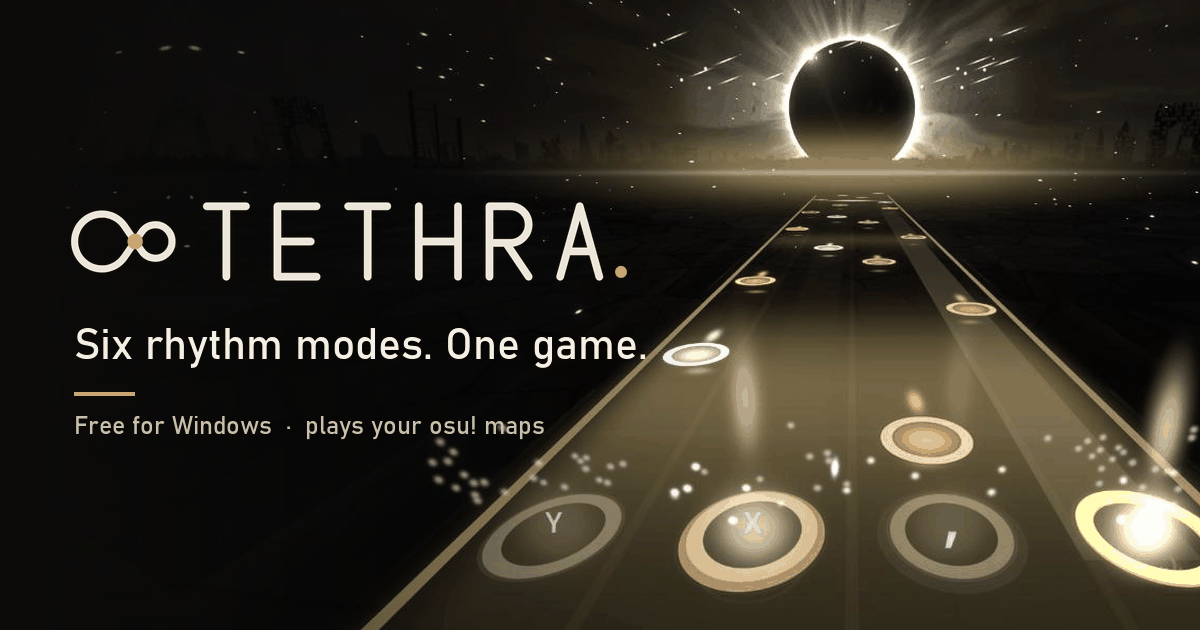
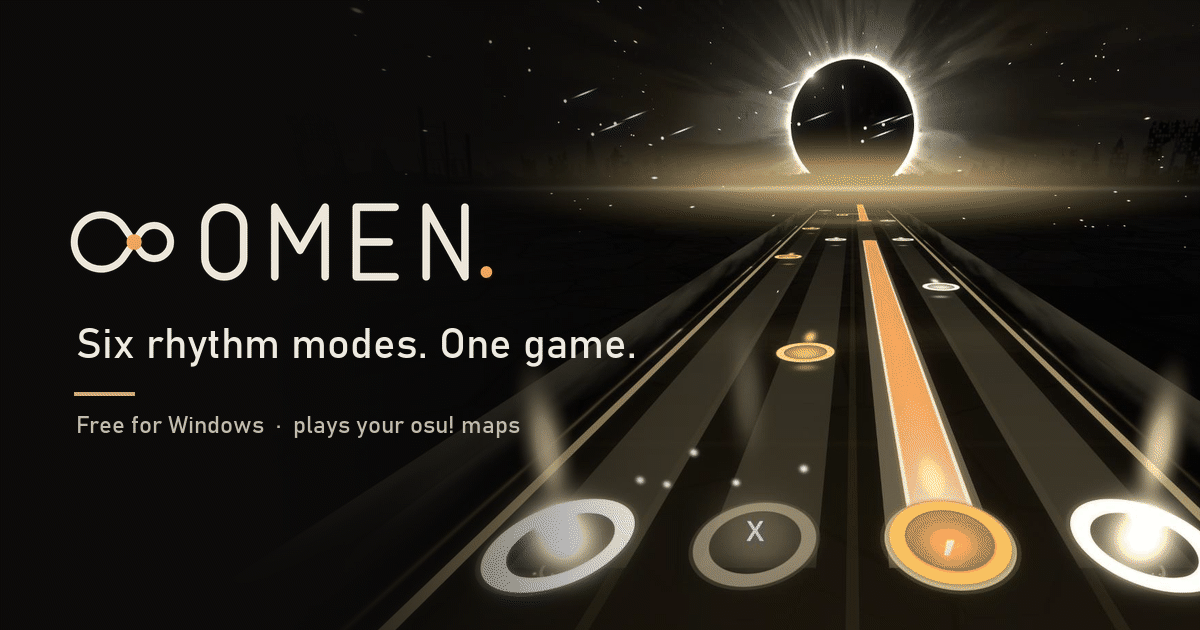
Media: Social Preview, OG-Bild und Trailer-Vorschaubild mit OMEN
Social Preview und OG-Bild neu aus einer Eclipse-Aufnahme ohne HUD (tools/make_social_preview.py),
im Trailer-Vorschaubild nur das Logo ersetzt (Hintergrund aus dem Map-Bild rekonstruiert).

diff --git a/tools/make_social_preview.py b/tools/make_social_preview.py
@@ -1,0 +1,145 @@
+#!/usr/bin/env python3
+"""Social Preview (docs/media/social_preview.png, 1280x640) und OG-Bild (docs/media/og_image.png,
+1200x630): echte Spielszene rechts, OMEN-Logo und Claim links auf Graphit.
+
+Aufruf: python tools/make_social_preview.py <szene.png>
+
+<szene.png> = 1920x1080-Bild der Eclipse-Welt ohne HUD, z. B. ein Frame aus einer
+Movie-Maker-Aufnahme wie in tools/make_trailer.sh (override.cfg aus tools/test_override.cfg plus
+window_width_override=1920/window_height_override=1080/borderless, dann
+  Godot --path . --audio-driver Dummy --write-movie <avi> --fixed-fps 60 --resolution 1920x1080
+  --position -1920,0 res://scenes/song_select.tscn --mode=mania --map="Cyber Grind" --diff=Hard
+  --3d --theme=eclipse --autoplay --lang=en --nohud --shot --shot-at=135500 --shot-lead=0
+  --movie-len=3
+und einen Frame mit ffmpeg herausziehen). Logo: docs/media/logo_wordmark.png
+(aus tools/render_logo_drafts.py --final). Schrift: Bahnschrift wie im Spiel (UiTheme.heading_font).
+"""
+import os
+import sys
+
+import numpy as np
+from PIL import Image, ImageDraw, ImageFont
+
+REPO = os.path.normpath(os.path.join(os.path.dirname(os.path.abspath(__file__)), ".."))
+MEDIA = os.path.join(REPO, "docs", "media")
+FONT = r"C:\Windows\Fonts\bahnschrift.ttf"
+GROUND = (12, 11, 10)          # Graphit, etwas tiefer als UiTheme.BG, damit die Szene leuchtet
+TEXT = (238, 234, 225)         # UiTheme.TEXT
+SUB = (193, 186, 172)          # zwischen TEXT und DIM
+RULE = (207, 172, 120)         # gedaempftes Bernstein
+HEAD = "Six rhythm modes. One game."
+TAIL = "Free for Windows  \u00b7  plays your osu! maps"
+
+# Ziel je Bild: Groesse, Eclipse-Mitte (Szene), Szenen-Massstab (1920x1080 -> Bild, so dass die
+# Empfaenger unten knapp im Bild bleiben), Logo (links, oben, Tintenhoehe),
+# Claim (links, oben, Breite), Linie (x, y, b, h), Zeile 2 (links, oben, Breite).
+LAYOUTS = {
+    "social_preview.png": dict(size=(1280, 640), sun=(908, 105), scale=0.72, logo=(75, 201, 81),
+                               head=(80, 331, 607), rule=(78, 402, 65, 5), tail=(81, 428, 500)),
+    "og_image.png": dict(size=(1200, 630), sun=(852, 102), scale=0.685, logo=(71, 203, 77),
+                         head=(76, 328, 568), rule=(74, 392, 61, 4), tail=(76, 416, 466)),
+}
+
+
+def find_sun(img):
+    """Mitte und Radius der dunklen Eclipse-Scheibe im oberen Bilddrittel."""
+    a = np.asarray(img.convert("L"), dtype=float)
+    h, w = a.shape
+    top = a[: h // 3, w // 4: 3 * w // 4]
+    # Scheibe = dunkle Flaeche, die von hellem Kranz umgeben ist: Spalten/Zeilen mit Kranz suchen
+    bright = top > 200
+    ys, xs = np.nonzero(bright)
+    cx = xs.mean() + w // 4
+    # Radius: dunkler Lauf entlang der Zeile durch die Kranz-Mitte
+    cy = ys.mean()
+    for _ in range(3):
+        row = a[int(cy), :]
+        x = int(cx)
+        l = x
+        while l > 0 and row[l] < 60:
+            l -= 1
+        r = x
+        while r < w - 1 and row[r] < 60:
+            r += 1
+        cx = (l + r) / 2
+        col = a[:, int(cx)]
+        t = int(cy)
+        while t > 0 and col[t] < 60:
+            t -= 1
+        b = int(cy)
+        while b < h - 1 and col[b] < 60:
+            b += 1
+        cy = (t + b) / 2
+    return cx, cy, (r - l) / 2
+
+
+def fit_font(text, width):
+    lo, hi = 8, 120
+    while hi - lo > 1:
+        mid = (lo + hi) // 2
+        f = ImageFont.truetype(FONT, mid)
+        f.set_variation_by_name("Regular")
+        x0, _, x1, _ = f.getbbox(text)
+        if x1 - x0 <= width:
+            lo = mid
+        else:
+            hi = mid
+    f = ImageFont.truetype(FONT, lo)
+    f.set_variation_by_name("Regular")
+    return f
+
+
+def put_text(d, text, left, top, width, fill):
+    f = fit_font(text, width)
+    x0, y0, _, _ = f.getbbox(text)
+    d.text((left - x0, top - y0), text, font=f, fill=fill)
+
+
+def compose(scene, name, L):
+    W, H = L["size"]
+    sx, sy, sr = find_sun(scene)
+    print("Eclipse in der Szene: %.0f, %.0f, r=%.0f" % (sx, sy, sr))
+    tx, ty = L["sun"]
+    k = L["scale"] * scene.width / 1920.0
+    sc = scene.resize((round(scene.width * k), round(scene.height * k)), Image.LANCZOS)
+    ox, oy = round(tx - sx * k), round(ty - sy * k)
+    out = Image.new("RGB", (W, H), GROUND)
+    out.paste(sc, (ox, oy))
+    # Szene nach links in den Graphit-Grund auslaufen lassen (glatte S-Kurve, kein Schein)
+    a = np.asarray(out, dtype=float)
+    x = np.arange(W, dtype=float)
+    t = np.clip((x - ox) / (W * 0.48), 0.0, 1.0)
+    keep = t * t * (3 - 2 * t)
+    a = a * keep[None, :, None] + np.array(GROUND, dtype=float)[None, None, :] * (1 - keep[None, :, None])
+    out = Image.fromarray(np.clip(a + 0.5, 0, 255).astype(np.uint8)).convert("RGBA")
+    # Logo
+    lg = Image.open(os.path.join(MEDIA, "logo_wordmark.png")).convert("RGBA")
+    bx = lg.getchannel("A").point(lambda v: 255 if v > 128 else 0).getbbox()
+    lx, ly, lh = L["logo"]
+    s = lh / (bx[3] - bx[1])
+    small = lg.resize((round(lg.width * s), round(lg.height * s)), Image.LANCZOS)
+    out.alpha_composite(small, (round(lx - bx[0] * s), round(ly - bx[1] * s)))
+    d = ImageDraw.Draw(out)
+    put_text(d, HEAD, *L["head"], fill=TEXT)
+    rx, ry, rw, rh = L["rule"]
+    d.rectangle((rx, ry, rx + rw - 1, ry + rh - 1), fill=RULE)
+    put_text(d, TAIL, *L["tail"], fill=SUB)
+    path = os.path.join(MEDIA, name)
+    # 256-Farben-PNG wie bisher (klein); Palette erst bestimmen, dann mit Fehlerstreuung
+    # abbilden, sonst stuft sich der Bernstein-Verlauf der Haltenoten sichtbar ab.
+    rgb = out.convert("RGB")
+    pal = rgb.quantize(colors=256, method=Image.Quantize.MEDIANCUT)
+    rgb.quantize(palette=pal, dither=Image.Dither.FLOYDSTEINBERG).save(path, optimize=True)
+    print(name, out.size, "Szene x%.3f" % k, os.path.getsize(path), "Bytes")
+
+
+def main():
+    if len(sys.argv) < 2:
+        sys.exit(__doc__)
+    scene = Image.open(sys.argv[1]).convert("RGB")
+    for name, L in LAYOUTS.items():
+        compose(scene, name, L)
+
+
+if __name__ == "__main__":
+    main()
